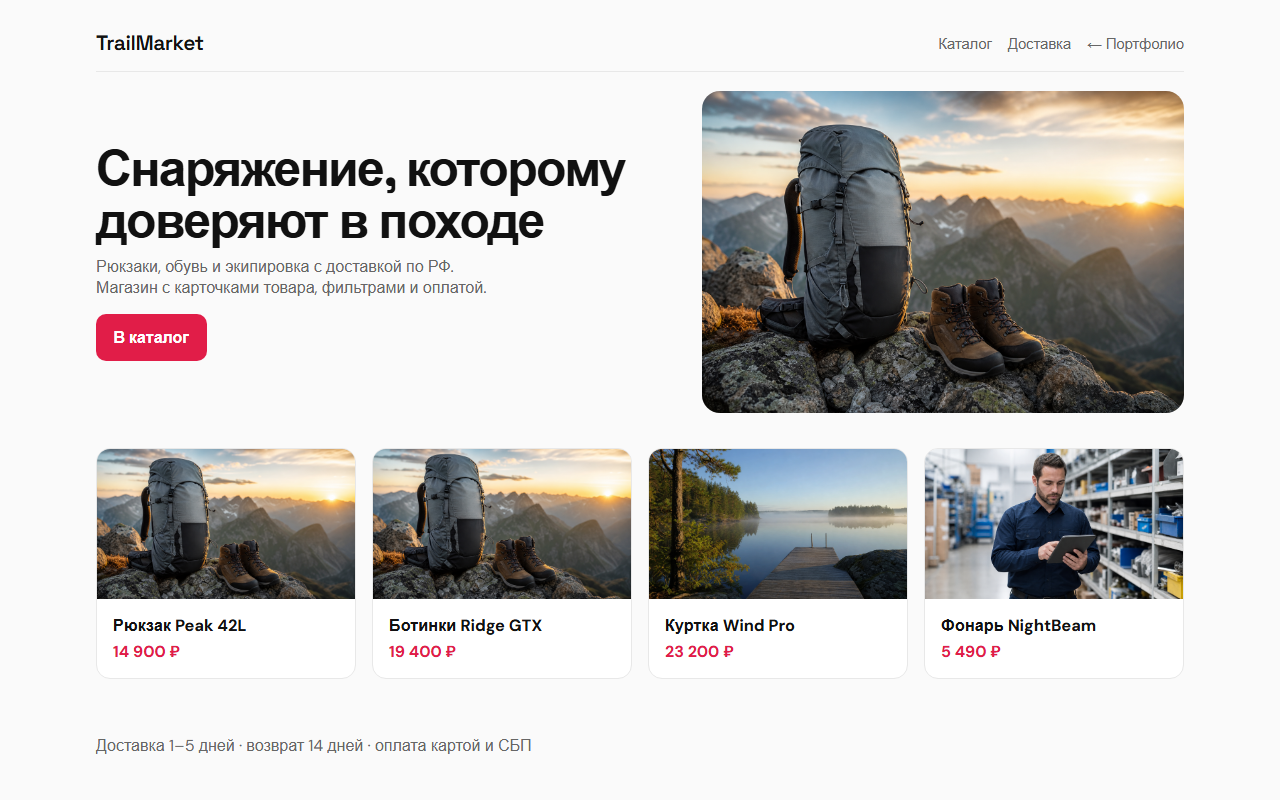
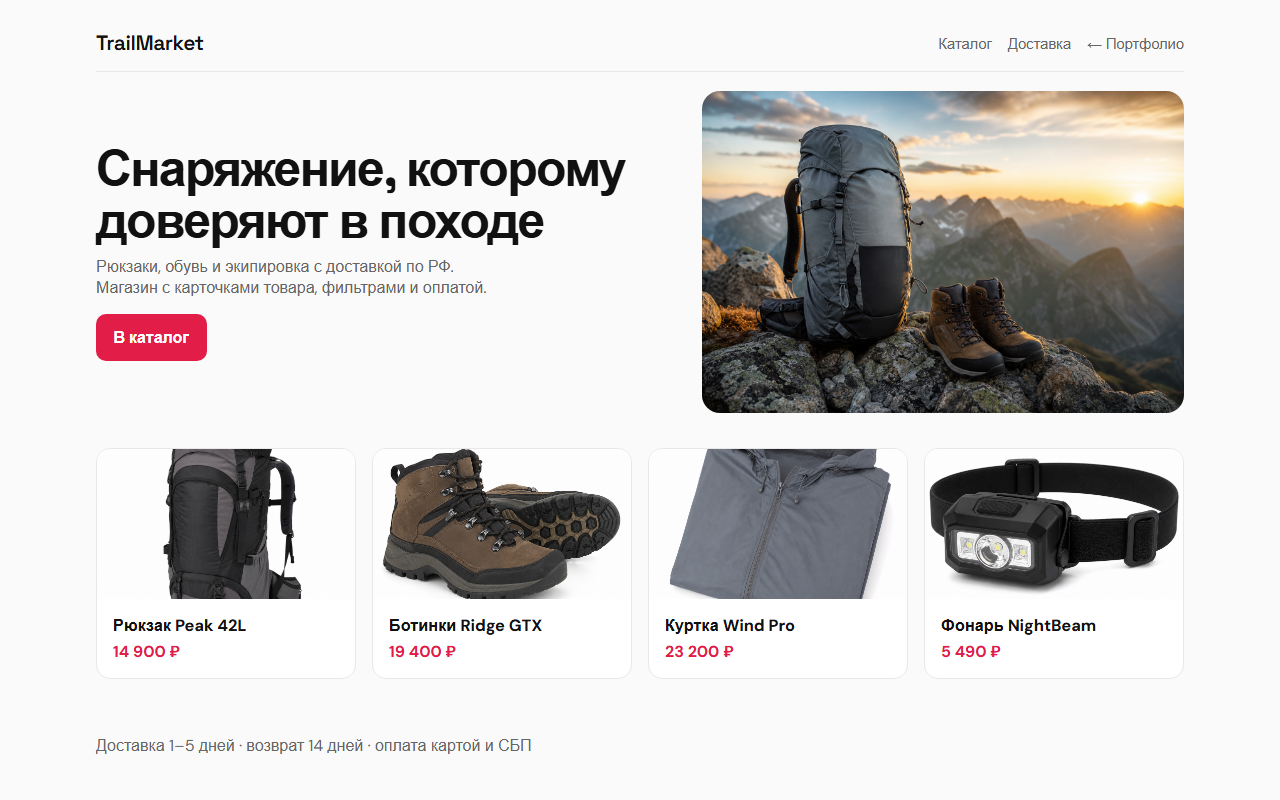
Fix project media paths and restore old demo URLs.

Changed region(s): [[0.0625, 0.5625, 0.9375, 0.75]]

diff --git a/index.html b/index.html
@@ -1,4 +1,4 @@
-<!DOCTYPE html>
+<!DOCTYPE html>
 <html lang="ru">
 <head>
   <meta charset="utf-8"/>
@@ -96,8 +96,8 @@
       </div>
 
       <div class="cases">
-        <a class="case wide reveal" data-cat="gov web" href="sites/smol-services/">
-          <div class="case-media"><img src="assets/shots/smol-services.png" alt="Смоленские сервисы" width="1280" height="800" loading="lazy"/></div>
+        <a class="case wide reveal" data-cat="gov web" href="/sites/smol-services/">
+          <div class="case-media"><img src="/assets/shots/smol-services.png" alt="Смоленские сервисы" width="1280" height="800" loading="lazy"/></div>
           <div class="case-body">
             <span class="case-tag">B2G · Городской портал</span>
             <h3>Смоленские сервисы</h3>
@@ -106,8 +106,8 @@
           </div>
         </a>
 
-        <a class="case reveal" data-cat="shop" href="sites/trailmarket/">
-          <div class="case-media"><img src="assets/shots/trailmarket.png" alt="TrailMarket" width="1280" height="800" loading="lazy"/></div>
+        <a class="case reveal" data-cat="shop" href="/sites/trailmarket/">
+          <div class="case-media"><img src="/assets/shots/trailmarket.png" alt="TrailMarket" width="1280" height="800" loading="lazy"/></div>
           <div class="case-body">
             <span class="case-tag">E‑commerce</span>
             <h3>TrailMarket</h3>
@@ -116,8 +116,8 @@
           </div>
         </a>
 
-        <a class="case reveal" data-cat="app" href="sites/ledgerops/">
-          <div class="case-media"><img src="assets/shots/ledgerops.png" alt="LedgerOps CRM" width="1280" height="800" loading="lazy"/></div>
+        <a class="case reveal" data-cat="app" href="/sites/ledgerops/">
+          <div class="case-media"><img src="/assets/shots/ledgerops.png" alt="LedgerOps CRM" width="1280" height="800" loading="lazy"/></div>
           <div class="case-body">
             <span class="case-tag">SaaS / CRM</span>
             <h3>LedgerOps</h3>
@@ -126,8 +126,8 @@
           </div>
         </a>
 
-        <a class="case reveal" data-cat="mobile" href="sites/fieldly/">
-          <div class="case-media"><img src="assets/shots/fieldly.png" alt="Fieldly mobile" width="1280" height="800" loading="lazy"/></div>
+        <a class="case reveal" data-cat="mobile" href="/sites/fieldly/">
+          <div class="case-media"><img src="/assets/shots/fieldly.png" alt="Fieldly mobile" width="1280" height="800" loading="lazy"/></div>
           <div class="case-body">
             <span class="case-tag">Mobile / PWA</span>
             <h3>Fieldly</h3>
@@ -136,8 +136,8 @@
           </div>
         </a>
 
-        <a class="case reveal" data-cat="bot" href="sites/shopbot-pro/">
-          <div class="case-media"><img src="assets/shots/shopbot-pro.png" alt="ShopBot Pro" width="1280" height="800" loading="lazy"/></div>
+        <a class="case reveal" data-cat="bot" href="/sites/shopbot-pro/">
+          <div class="case-media"><img src="/assets/shots/shopbot-pro.png" alt="ShopBot Pro" width="1280" height="800" loading="lazy"/></div>
           <div class="case-body">
             <span class="case-tag">Telegram Bot</span>
             <h3>ShopBot Pro</h3>
@@ -146,8 +146,8 @@
           </div>
         </a>
 
-        <a class="case reveal" data-cat="bot" href="sites/datapine/">
-          <div class="case-media"><img src="assets/shots/datapine.png" alt="DataPine" width="1280" height="800" loading="lazy"/></div>
+        <a class="case reveal" data-cat="bot" href="/sites/datapine/">
+          <div class="case-media"><img src="/assets/shots/datapine.png" alt="DataPine" width="1280" height="800" loading="lazy"/></div>
           <div class="case-body">
             <span class="case-tag">Parsers / Scripts</span>
             <h3>DataPine</h3>
@@ -156,8 +156,8 @@
           </div>
         </a>
 
-        <a class="case reveal" data-cat="web" href="sites/northline/">
-          <div class="case-media"><img src="assets/shots/northline.png" alt="Northline" width="1280" height="800" loading="lazy"/></div>
+        <a class="case reveal" data-cat="web" href="/sites/northline/">
+          <div class="case-media"><img src="/assets/shots/northline.png" alt="Northline" width="1280" height="800" loading="lazy"/></div>
           <div class="case-body">
             <span class="case-tag">Corporate Web</span>
             <h3>Northline</h3>
@@ -166,8 +166,8 @@
           </div>
         </a>
 
-        <a class="case reveal" data-cat="web shop" href="sites/karelia-escape/">
-          <div class="case-media"><img src="assets/shots/karelia-escape.png" alt="Karelia Escape" width="1280" height="800" loading="lazy"/></div>
+        <a class="case reveal" data-cat="web shop" href="/sites/karelia-escape/">
+          <div class="case-media"><img src="/assets/shots/karelia-escape.png" alt="Karelia Escape" width="1280" height="800" loading="lazy"/></div>
           <div class="case-body">
             <span class="case-tag">Travel / Booking</span>
             <h3>Karelia Escape</h3>
@@ -176,8 +176,8 @@
           </div>
         </a>
 
-        <a class="case reveal" data-cat="web" href="sites/teplo-fond/">
-          <div class="case-media"><img src="assets/shots/teplo-fond.png" alt="Фонд Тепло" width="1280" height="800" loading="lazy"/></div>
+        <a class="case reveal" data-cat="web" href="/sites/teplo-fond/">
+          <div class="case-media"><img src="/assets/shots/teplo-fond.png" alt="Фонд Тепло" width="1280" height="800" loading="lazy"/></div>
           <div class="case-body">
             <span class="case-tag">Nonprofit</span>
             <h3>Фонд «Тепло»</h3>
@@ -285,3 +285,4 @@
   <script src="assets/app.js"></script>
 </body>
 </html>
+

diff --git a/sites/trailmarket/index.html b/sites/trailmarket/index.html
@@ -1,4 +1,4 @@
-<!DOCTYPE html>
+<!DOCTYPE html>
 <html lang="ru">
 <head>
 <meta charset="utf-8"/><meta name="viewport" content="width=device-width,initial-scale=1"/>
@@ -37,13 +37,13 @@ nav a{margin-left:1rem;color:var(--muted);font-size:.92rem}
     <p>Рюкзаки, обувь и экипировка с доставкой по РФ. Магазин с карточками товара, фильтрами и оплатой.</p>
     <a class="btn" href="#catalog">В каталог</a>
   </div>
-  <div class="hero-media"><img src="../../assets/media/projects/shop.png" alt="Outdoor снаряжение" width="1600" height="900"/></div>
+  <div class="hero-media"><img src="media/hero.png" alt="Outdoor снаряжение" width="1600" height="900"/></div>
 </section>
 <section class="grid" id="catalog">
-  <article class="card"><div class="ph"><img src="../../assets/media/projects/shop.png" alt="" style="object-position:30% 40%"/></div><div class="body"><h3>Рюкзак Peak 42L</h3><div class="price">14 900 ₽</div></div></article>
-  <article class="card"><div class="ph"><img src="../../assets/media/projects/shop.png" alt="" style="object-position:70% 60%"/></div><div class="body"><h3>Ботинки Ridge GTX</h3><div class="price">19 400 ₽</div></div></article>
-  <article class="card"><div class="ph"><img src="../../assets/media/projects/travel.png" alt=""/></div><div class="body"><h3>Куртка Wind Pro</h3><div class="price">23 200 ₽</div></div></article>
-  <article class="card"><div class="ph"><img src="../../assets/media/projects/mobile.png" alt="" style="object-position:center 20%"/></div><div class="body"><h3>Фонарь NightBeam</h3><div class="price">5 490 ₽</div></div></article>
+  <article class="card"><div class="ph"><img src="media/backpack.png" alt="Рюкзак Peak 42L"/></div><div class="body"><h3>Рюкзак Peak 42L</h3><div class="price">14 900 ₽</div></div></article>
+  <article class="card"><div class="ph"><img src="media/boots.png" alt="Ботинки Ridge GTX"/></div><div class="body"><h3>Ботинки Ridge GTX</h3><div class="price">19 400 ₽</div></div></article>
+  <article class="card"><div class="ph"><img src="media/jacket.png" alt="Куртка Wind Pro"/></div><div class="body"><h3>Куртка Wind Pro</h3><div class="price">23 200 ₽</div></div></article>
+  <article class="card"><div class="ph"><img src="media/lamp.png" alt="Фонарь NightBeam"/></div><div class="body"><h3>Фонарь NightBeam</h3><div class="price">5 490 ₽</div></div></article>
 </section>
 <p id="delivery" style="color:var(--muted);padding-bottom:2rem">Доставка 1–5 дней · возврат 14 дней · оплата картой и СБП</p>
 </div>

diff --git a/sites/karelia-escape/index.html b/sites/karelia-escape/index.html
@@ -1,4 +1,4 @@
-<!DOCTYPE html>
+<!DOCTYPE html>
 <html lang="ru">
 <head>
 <meta charset="utf-8"/><meta name="viewport" content="width=device-width,initial-scale=1"/>
@@ -30,7 +30,7 @@ nav a{margin-left:1rem;color:var(--muted)}
   <div><a href="#tours">Туры</a><a href="#book">Бронь</a><a href="../../">← Портфолио</a></div>
 </nav>
 <section class="hero">
-  <img src="../../assets/media/projects/travel.png" alt="Озеро в Карелии" width="1600" height="900"/>
+  <img src="media/hero.png" alt="Озеро в Карелии" width="1600" height="900"/>
   <div class="overlay">
     <h1>Тихие маршруты Карелии</h1>
     <p>Подбор тура, бронь жилья и онлайн-оплата. Сервис для путешественников без суеты.</p>
@@ -38,9 +38,9 @@ nav a{margin-left:1rem;color:var(--muted)}
   </div>
 </section>
 <section class="grid" id="tours">
-  <article class="card"><div class="ph"><img src="../../assets/media/projects/travel.png" alt=""/></div><div class="body"><h3>Ладожский берег</h3><p>3 дня · трансфер</p><div class="price">от 18 900 ₽</div></div></article>
-  <article class="card"><div class="ph"><img src="../../assets/media/projects/shop.png" alt="" style="object-position:center 70%"/></div><div class="body"><h3>Лесной weekend</h3><p>2 дня · дом у воды</p><div class="price">от 22 400 ₽</div></div></article>
-  <article class="card"><div class="ph"><img src="../../assets/media/projects/corp.png" alt="" style="object-position:center 80%"/></div><div class="body"><h3>Водный маршрут</h3><p>2 дня · каяки</p><div class="price">от 15 200 ₽</div></div></article>
+  <article class="card"><div class="ph"><img src="media/tour1.png" alt="Ладожский берег"/></div><div class="body"><h3>Ладожский берег</h3><p>3 дня · трансфер</p><div class="price">от 18 900 ₽</div></div></article>
+  <article class="card"><div class="ph"><img src="media/tour2.png" alt="Лесной weekend"/></div><div class="body"><h3>Лесной weekend</h3><p>2 дня · дом у воды</p><div class="price">от 22 400 ₽</div></div></article>
+  <article class="card"><div class="ph"><img src="media/tour3.png" alt="Водный маршрут"/></div><div class="body"><h3>Водный маршрут</h3><p>2 дня · каяки</p><div class="price">от 15 200 ₽</div></div></article>
 </section>
 <section id="book" style="background:#fff;border-radius:16px;padding:1.2rem;margin-bottom:2rem">
   <h3 style="font-family:Fraunces,serif;margin:0 0 .4rem">Бронирование</h3>

diff --git a/sites/smol-services/index.html b/sites/smol-services/index.html
@@ -1,4 +1,4 @@
-<!DOCTYPE html>
+<!DOCTYPE html>
 <html lang="ru">
 <head>
 <meta charset="utf-8"/><meta name="viewport" content="width=device-width,initial-scale=1"/>
@@ -39,7 +39,7 @@ a{color:inherit;text-decoration:none}.wrap{max-width:1120px;margin:0 auto;paddin
       <p>Единая точка входа для жителей и организаций: запись, документы и контроль исполнения. Контур, близкий к муниципальным и государственным заказам.</p>
       <a class="btn" href="#services">Открыть каталог услуг</a>
     </div>
-    <div class="hero-media"><img src="../../assets/media/projects/gov.png" alt="Административное здание" width="1600" height="900"/></div>
+    <div class="hero-media"><img src="media/hero.png" alt="Административное здание" width="1600" height="900"/></div>
   </section>
   <section class="grid" id="services">
     <article class="card"><h3>Запись в МФЦ</h3><p>Выбор окна, подтверждение и напоминание.</p><span class="badge">Доступно</span></article>

diff --git a/sites/fieldly/index.html b/sites/fieldly/index.html
@@ -1,4 +1,4 @@
-<!DOCTYPE html>
+<!DOCTYPE html>
 <html lang="ru">
 <head>
 <meta charset="utf-8"/><meta name="viewport" content="width=device-width,initial-scale=1"/>
@@ -34,7 +34,7 @@ a{color:inherit;text-decoration:none}.page{max-width:1080px;margin:0 auto;paddin
       <p style="color:var(--acc);font-weight:700;margin:0;letter-spacing:.04em;text-transform:uppercase;font-size:.78rem">Mobile / PWA</p>
       <h1>Fieldly — задачи для выездных бригад</h1>
       <p>Мобильный кабинет: маршруты, статусы работ, акты и офлайн-ready интерфейс. Подходит для сервисных и монтажных компаний.</p>
-      <div class="hero-media"><img src="../../assets/media/projects/mobile.png" alt="Полевой сотрудник с планшетом" width="1600" height="900"/></div>
+      <div class="hero-media"><img src="media/hero.png" alt="Полевой сотрудник с планшетом" width="1600" height="900"/></div>
     </div>
     <div class="phone">
       <div class="notch"></div>

diff --git a/sites/northline/index.html b/sites/northline/index.html
@@ -1,4 +1,4 @@
-<!DOCTYPE html>
+<!DOCTYPE html>
 <html lang="ru">
 <head>
 <meta charset="utf-8"/><meta name="viewport" content="width=device-width,initial-scale=1"/>
@@ -35,7 +35,7 @@ p{color:var(--muted);line-height:1.55;margin:0 0 1rem}
     <p>Корпоративный сайт консалтинговой практики: оффер, услуги, маршрут к заявке. Чистый B2B-формат.</p>
     <a class="btn" href="#contact">Запросить консультацию</a>
   </div>
-  <div class="hero-media"><img src="../../assets/media/projects/corp.png" alt="Офисный комплекс" width="1600" height="900"/></div>
+  <div class="hero-media"><img src="media/hero.png" alt="Офисный комплекс" width="1600" height="900"/></div>
 </section>
 <section class="grid" id="services">
   <article class="card"><h3>Аудит</h3><p>Технический и продуктовый разбор текущего контура.</p></article>

diff --git a/sites/datapine/index.html b/sites/datapine/index.html
@@ -1,4 +1,4 @@
-<!DOCTYPE html>
+<!DOCTYPE html>
 <html lang="ru">
 <head>
 <meta charset="utf-8"/><meta name="viewport" content="width=device-width,initial-scale=1"/>
@@ -34,7 +34,7 @@ p{color:var(--muted);line-height:1.55;margin:0 0 .8rem}
     <h1>Парсеры, мониторинг цен и выгрузки в CRM</h1>
     <p>Сбор данных по расписанию, очистка дублей и доставка в webhook / таблицы / API. Для аналитики, обзвона и конкурентной разведки.</p>
   </div>
-  <div class="hero-media"><img src="../../assets/media/projects/parse.png" alt="Мониторы с данными" width="1600" height="900"/></div>
+  <div class="hero-media"><img src="media/hero.png" alt="Мониторы с данными" width="1600" height="900"/></div>
 </section>
 <div class="terminal">
   <div class="dim"># job: market_watch · region=RU-SMO</div>

diff --git a/sites/shopbot-pro/index.html b/sites/shopbot-pro/index.html
@@ -1,4 +1,4 @@
-<!DOCTYPE html>
+<!DOCTYPE html>
 <html lang="ru">
 <head>
 <meta charset="utf-8"/><meta name="viewport" content="width=device-width,initial-scale=1"/>
@@ -39,7 +39,7 @@ p{color:#a7f3d0;line-height:1.55}
     <p>Каталог, оплата, CRM и админка. Бот ведёт клиента от вопроса до чека без сайта-посредника.</p>
     <a class="btn" href="#demo">Открыть сценарий</a>
   </div>
-  <div class="hero-media"><img src="../../assets/media/projects/bot.png" alt="Телефон с чатом" width="1600" height="900"/></div>
+  <div class="hero-media"><img src="media/hero.png" alt="Телефон с чатом" width="1600" height="900"/></div>
 </section>
 <section class="chat" id="demo">
   <div class="bubble"><div class="meta">ShopBot</div>Добрый день! 1) Каталог 2) Статус заказа 3) Оплата тарифа</div>

diff --git a/sites/teplo-fond/index.html b/sites/teplo-fond/index.html
@@ -1,4 +1,4 @@
-<!DOCTYPE html>
+<!DOCTYPE html>
 <html lang="ru">
 <head>
 <meta charset="utf-8"/><meta name="viewport" content="width=device-width,initial-scale=1"/>
@@ -37,7 +37,7 @@ nav a{margin-left:1rem;color:var(--muted)}
     <p>Сайт фонда с программами поддержки, формой пожертвования и ежемесячными отчётами для доноров.</p>
     <a class="btn" href="#help">Поддержать сейчас</a>
   </div>
-  <div class="hero-media"><img src="../../assets/media/projects/fund.png" alt="Гуманитарная помощь" width="1600" height="900"/></div>
+  <div class="hero-media"><img src="media/hero.png" alt="Гуманитарная помощь" width="1600" height="900"/></div>
 </section>
 <section class="stats">
   <div class="stat"><b>312</b><span>семей получили помощь</span></div>

diff --git a/sites/ledgerops/index.html b/sites/ledgerops/index.html
@@ -1,4 +1,4 @@
-<!DOCTYPE html>
+<!DOCTYPE html>
 <html lang="ru">
 <head>
 <meta charset="utf-8"/><meta name="viewport" content="width=device-width,initial-scale=1"/>
@@ -37,7 +37,7 @@ a{color:var(--muted);text-decoration:none}.wrap{max-width:1140px;margin:0 auto;p
       <p>Сделки, SLA, оборот и команда в одном контуре. Демо интерфейса продукта.</p>
       <a href="../../">← Портфолио</a>
     </div>
-    <div class="hero-media"><img src="../../assets/media/projects/crm.png" alt="Аналитика на мониторе" width="1600" height="900"/></div>
+    <div class="hero-media"><img src="media/hero.png" alt="Аналитика на мониторе" width="1600" height="900"/></div>
   </section>
   <div class="shell">
     <aside class="side">

diff --git a/sites/lake-travel/index.html b/sites/lake-travel/index.html
@@ -1,0 +1,13 @@
+<!DOCTYPE html>
+<html lang="ru">
+<head>
+<meta charset="utf-8"/>
+<meta http-equiv="refresh" content="0;url=../karelia-escape/"/>
+<link rel="canonical" href="../karelia-escape/"/>
+<title>Переход…</title>
+<script>location.replace('../karelia-escape/');</script>
+</head>
+<body>
+<p><a href="../karelia-escape/">Открыть проект</a></p>
+</body>
+</html>

diff --git a/sites/gos-portal/index.html b/sites/gos-portal/index.html
@@ -1,0 +1,13 @@
+<!DOCTYPE html>
+<html lang="ru">
+<head>
+<meta charset="utf-8"/>
+<meta http-equiv="refresh" content="0;url=../smol-services/"/>
+<link rel="canonical" href="../smol-services/"/>
+<title>Переход…</title>
+<script>location.replace('../smol-services/');</script>
+</head>
+<body>
+<p><a href="../smol-services/">Открыть проект</a></p>
+</body>
+</html>
